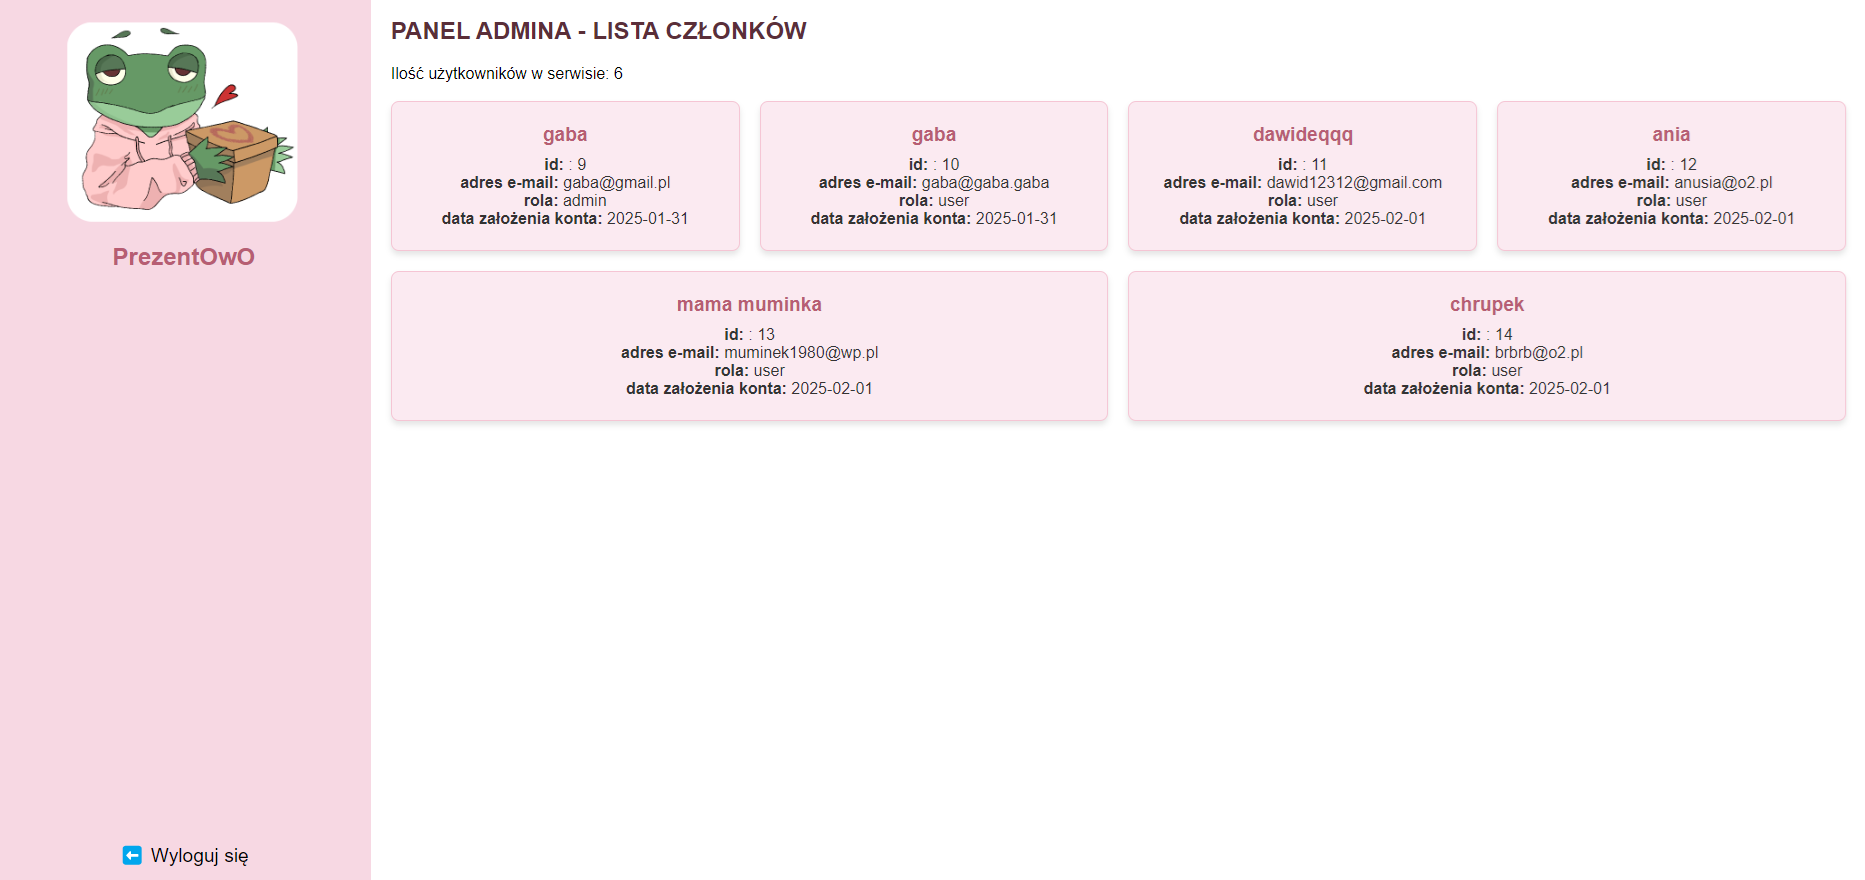
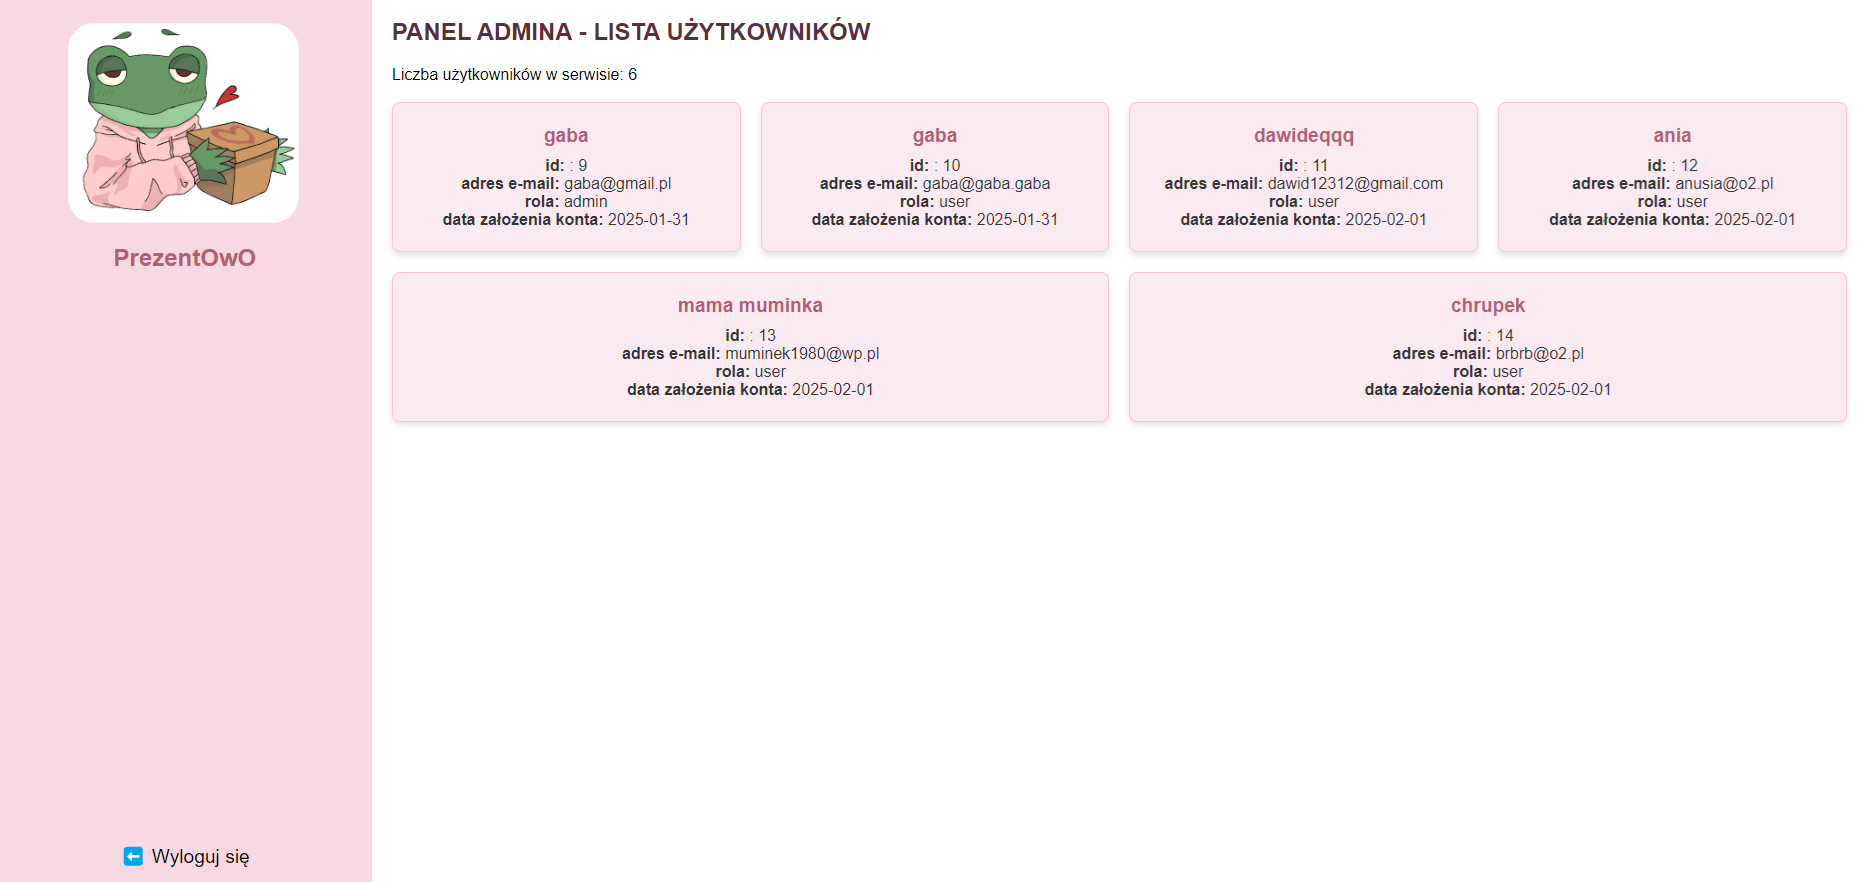
backup.sql

diff --git a/public/php/admin.php b/public/php/admin.php
@@ -21,11 +21,11 @@
         <!-- Główna zawartość -->
         <main class="main-content">
             <header>
-                <h2>PANEL ADMINA - LISTA CZŁONKÓW</h2>
+                <h2>PANEL ADMINA - LISTA UŻYTKOWNIKÓW</h2>
             </header>
             <?php
             $count_users = count($users);
-            echo '<p>Ilość użytkowników w serwisie: ' . $count_users . '</p><br>';
+            echo '<p>Liczba użytkowników w serwisie: ' . $count_users . '</p><br>';
             
             if (isset($users) && !empty($users)) {
 
